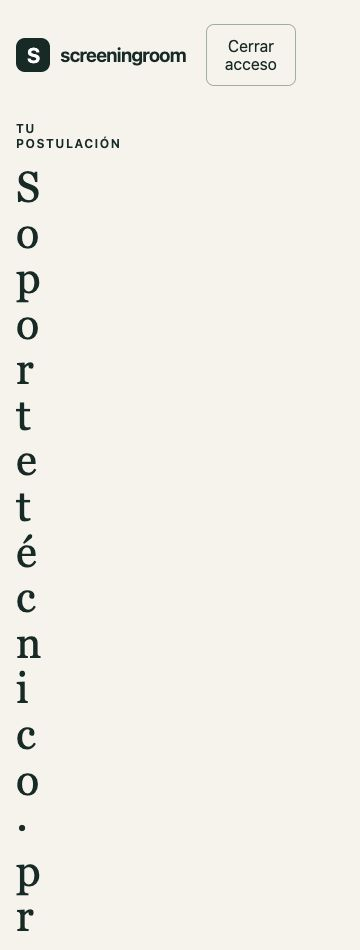
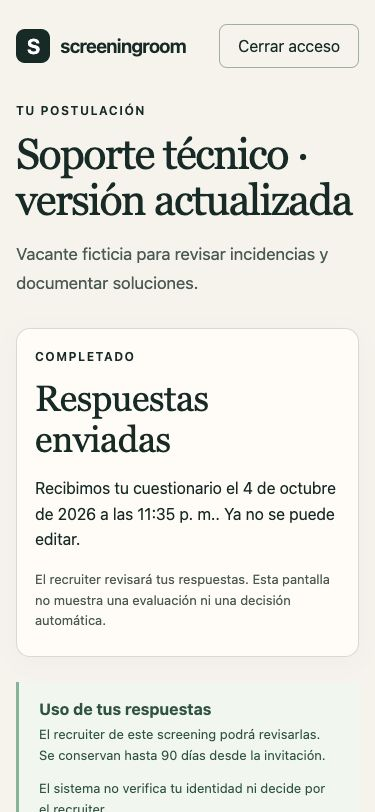
Record integration CI and correct mobile receipt evidence

diff --git a/docs/entrega-2-verificacion-2026-10-04.md b/docs/entrega-2-verificacion-2026-10-04.md
@@ -4,7 +4,7 @@
 
 ## Alcance y rama
 
-Se integra el desarrollo de `feature/review-feedback-LL` en `feature/entrega-2-LL` del fork `luislujan32/AI4Devs-finalproject`. Código verificado: `6fc10fa`, que incluye el bloque de espacio recruiter/versiones `19ab360` y los ajustes de alineación. Entrega 1 conserva su rama documental. [PR #2 de integración](https://github.com/luislujan32/AI4Devs-finalproject/pull/2), con base `feature/entrega-2-LL` y head `feature/review-feedback-LL`. El [CI del código 6fc10fa](https://github.com/luislujan32/AI4Devs-finalproject/actions/runs/37256082953) terminó correctamente. El estado del PR y los checks posteriores de documentación se consultan en ese PR; no se trabaja sobre el repositorio de la academia.
+Se integra el desarrollo de `feature/review-feedback-LL` en `feature/entrega-2-LL` del fork `luislujan32/AI4Devs-finalproject`. Código verificado: `6fc10fa`, que incluye el bloque de espacio recruiter/versiones `19ab360` y los ajustes de alineación. Entrega 1 conserva su rama documental. [PR #2 de integración](https://github.com/luislujan32/AI4Devs-finalproject/pull/2), con base `feature/entrega-2-LL` y head `feature/review-feedback-LL`. El [CI del código 6fc10fa](https://github.com/luislujan32/AI4Devs-finalproject/actions/runs/37256082953) terminó correctamente. El PR se fusionó con checks correctos en `7c7edf3`; el [CI de entrega 2 integrada](https://github.com/luislujan32/AI4Devs-finalproject/actions/runs/37256635258) también terminó correctamente. No se trabaja sobre el repositorio de la academia.
 
 ## Comprobaciones automatizadas
 
@@ -58,5 +58,7 @@ Se sincronizaron ocho cambios con las especificaciones vivas y se archivaron sie
 ## Evidencia visual ficticia
 
 ![Informe accesible después del cierre, criterio incumplido y decisión humana visible](evidencias/entrega-2-informe-cerrado.jpg)
+
+El recibo se verificó visualmente a 375 y 320 px, con ancho de documento igual a su scrollWidth. La captura móvil de página completa del navegador produjo un reflujo artificial durante su generación, aunque la pantalla real era correcta; se reemplazó por la captura de viewport de 375 × 812, inspeccionada antes de guardar. No hubo cambio de CSS por ese artefacto.
 
 ![Recibo persistido del candidato en móvil](evidencias/entrega-2-recibo-mobile.jpg)

diff --git a/prompts.md b/prompts.md
@@ -351,3 +351,5 @@ Por cada fase se añadirán las herramientas y modelos identificables, hasta tre
 **Evidencia:** 64/64 pruebas (persistencia 14, auth 13, screenings 24, candidate 7, attempt 6), smoke y checks correctos. Navegador: editor/recarga, banco, publicación, invitación v1, cambios para futuras invitaciones v2, correo sin código, save/reload/salir/OTP/retomar, envío y recibo, informe con umbral original, decisión distinta del cálculo, cierre, invitación previa válida y conflicto entre pestañas con recuperación explícita. [Registro detallado](docs/entrega-2-verificacion-2026-10-04.md). Se publica mediante PR hacia entrega 2 del fork y se verifica CI sin atribuir a pruebas locales un resultado remoto.
 
 **Límites:** sin datos reales, mensajes externos, despliegue público ni nueva generación IA. El recorrido de interfaz es manual. La entrega formal por formulario no se realiza en este workflow.
+
+**Cierre de workflow 20:** PR #2 fusionado hacia entrega 2 y CI de la rama integrada correcto. Al inspeccionar el archivo de evidencia se detectó que la captura móvil de página completa alteraba el reflujo; se contrastó con pantalla y dimensiones DOM a 375/320 px, se reemplazó por captura de viewport correcta y no se cambió CSS para acomodar un artefacto del capturador.
